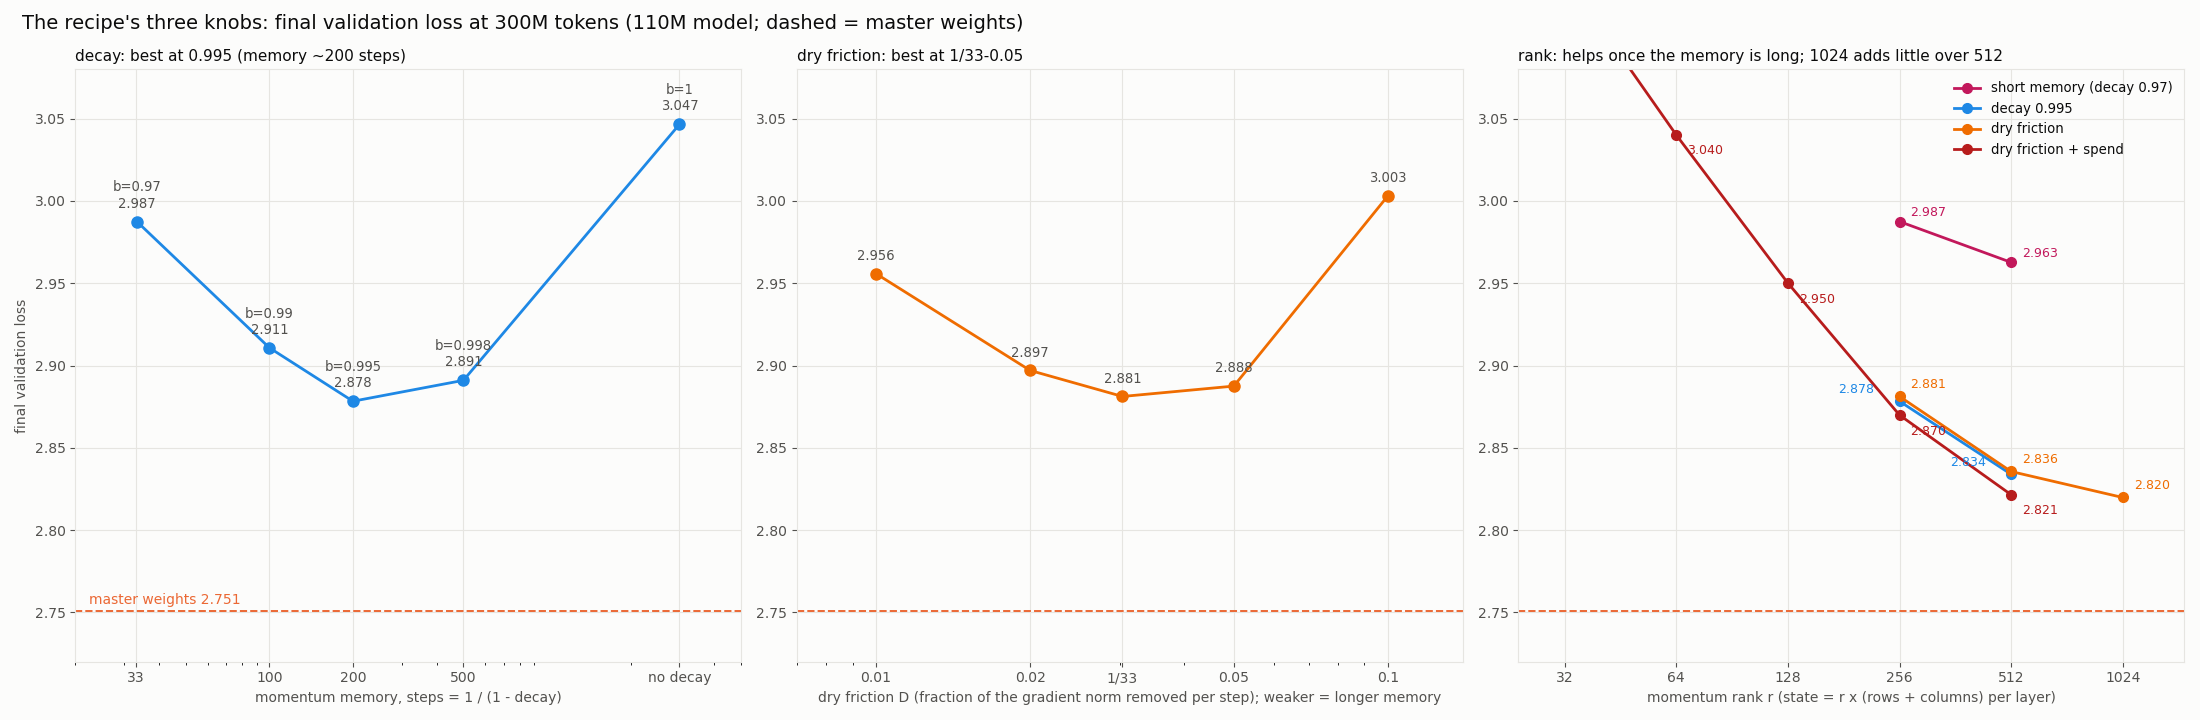
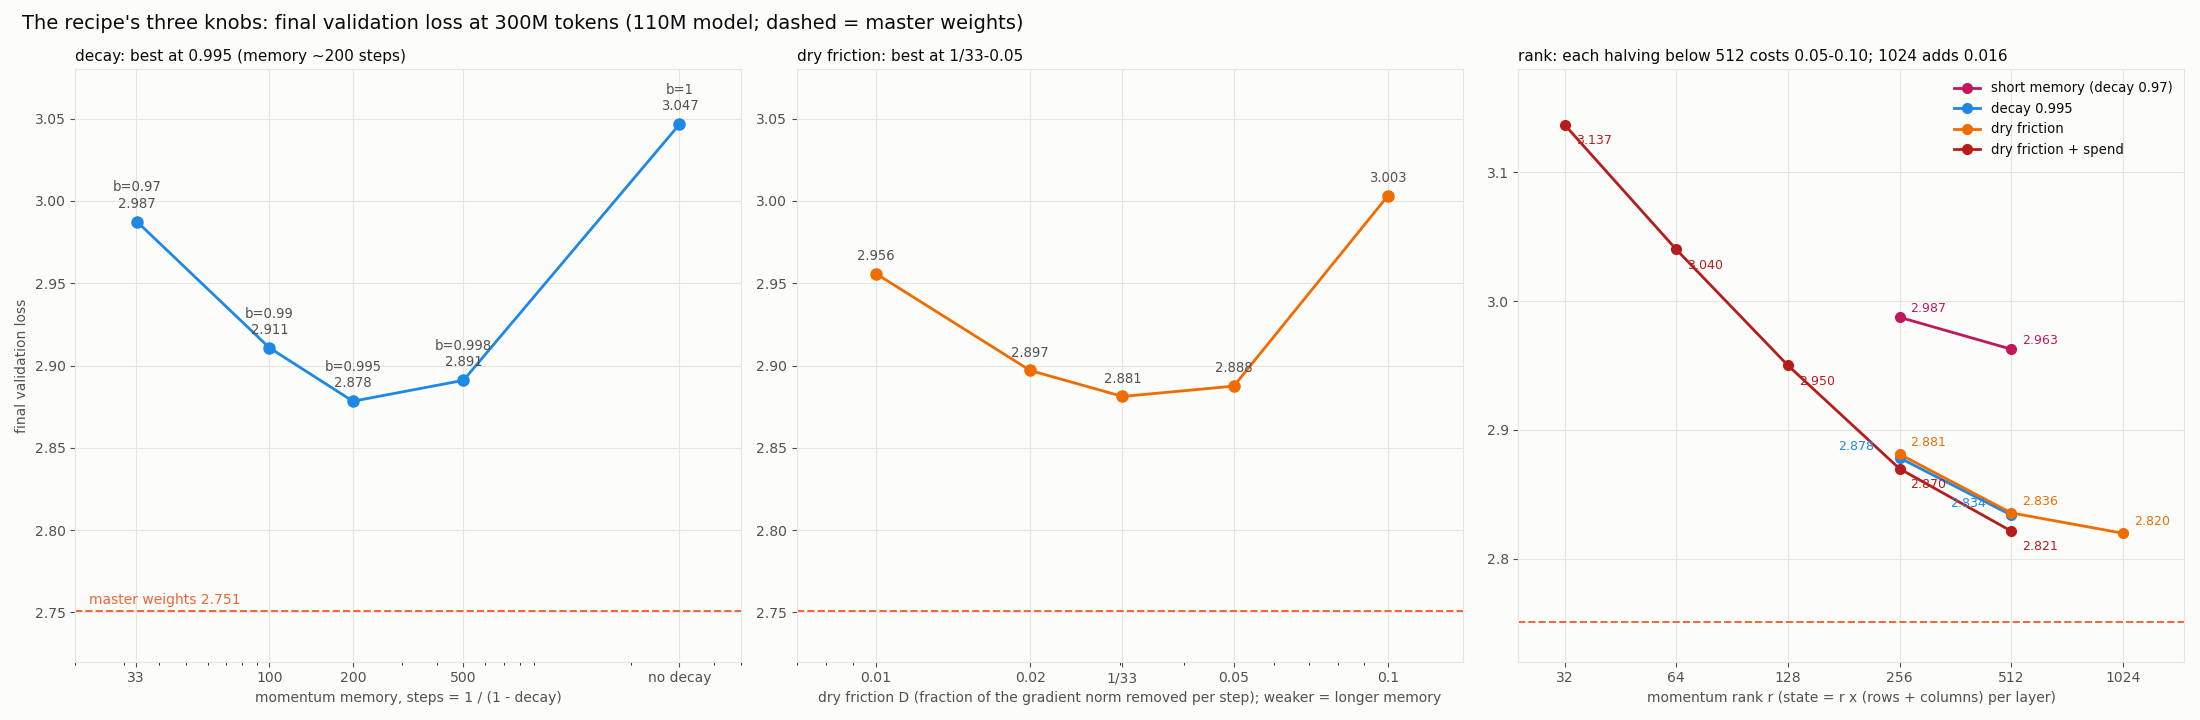
Sweeps figure: rank panel shows rank 32

diff --git a/scripts/plots/plot_sweeps.py b/scripts/plots/plot_sweeps.py
@@ -82,7 +82,8 @@ if missing:
 a.set_xscale("log", base=2); a.set_xlim(24, 1500)
 a.set_xticks([32, 64, 128, 256, 512, 1024]); a.set_xticklabels(["32", "64", "128", "256", "512", "1024"])
 a.set_xlabel("momentum rank r (state = r x (rows + columns) per layer)", color=INK2)
-a.set_title("rank: helps once the memory is long; 1024 adds little over 512", color=INK, fontsize=11, loc="left")
+a.set_ylim(2.72, 3.18)   # own range: rank 32 sits at 3.14
+a.set_title("rank: each halving below 512 costs 0.05-0.10; 1024 adds 0.016", color=INK, fontsize=11, loc="left")
 a.legend(loc="upper right", fontsize=9.5, frameon=False, labelcolor=INK)
 fig.suptitle("The recipe's three knobs: final validation loss at 300M tokens (110M model; dashed = master weights)",
              color=INK, fontsize=14, x=0.01, ha="left")
